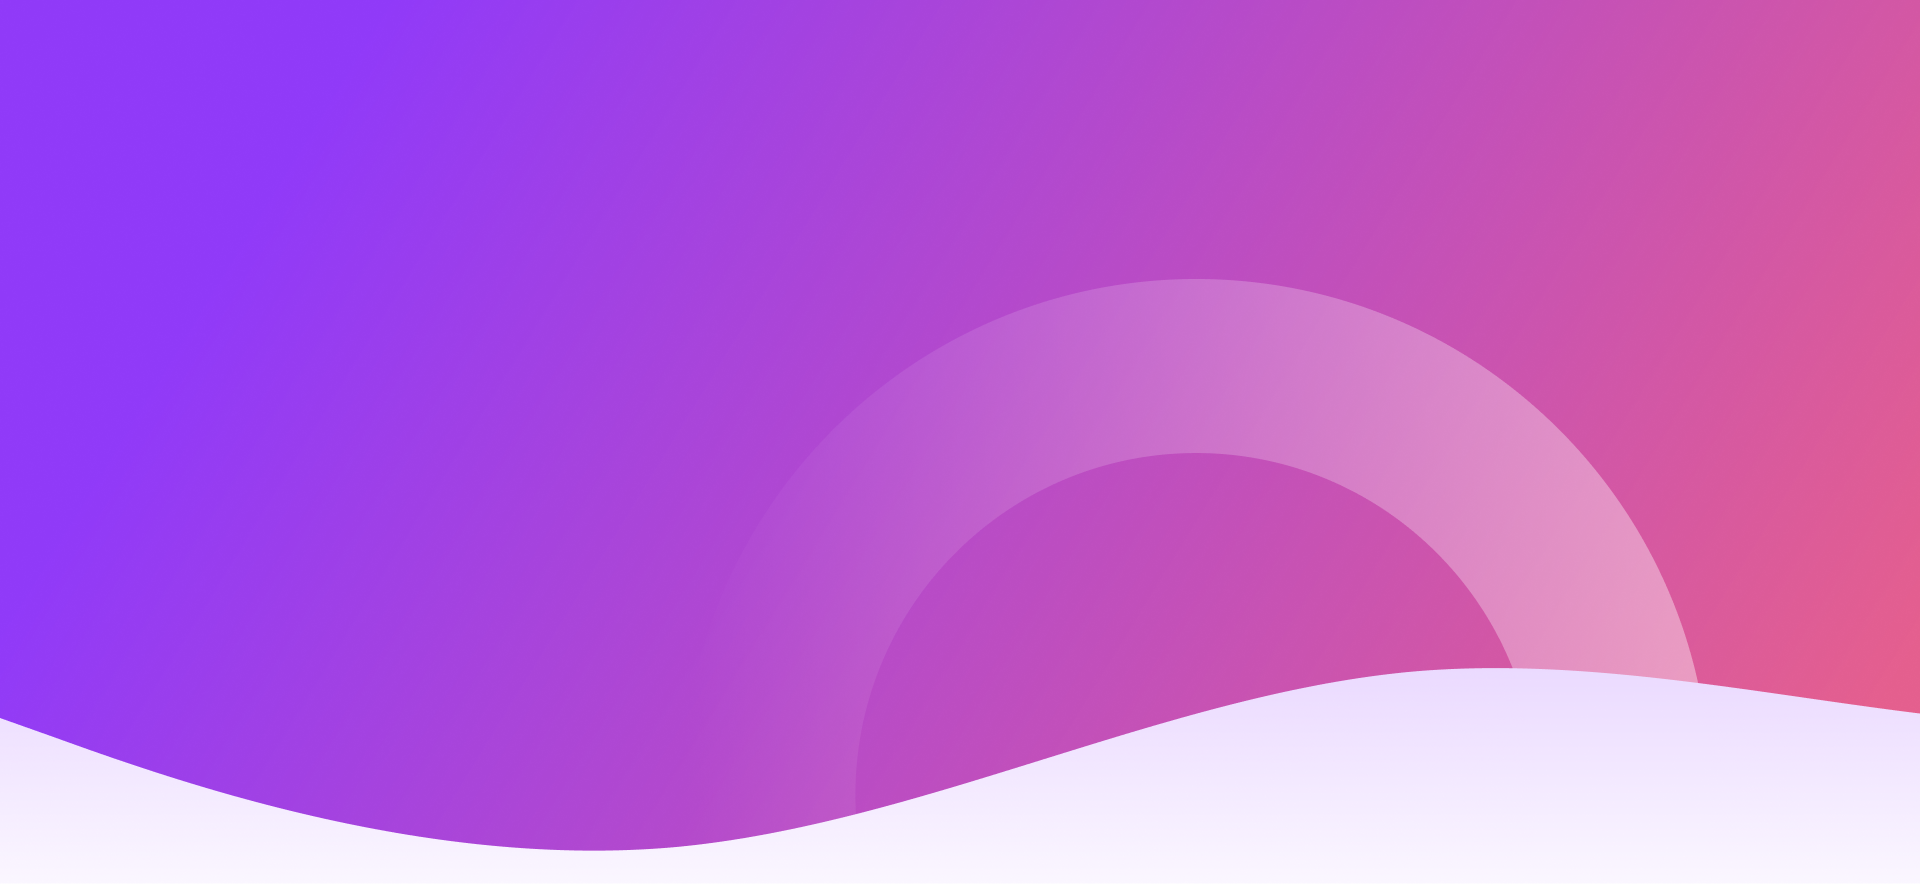
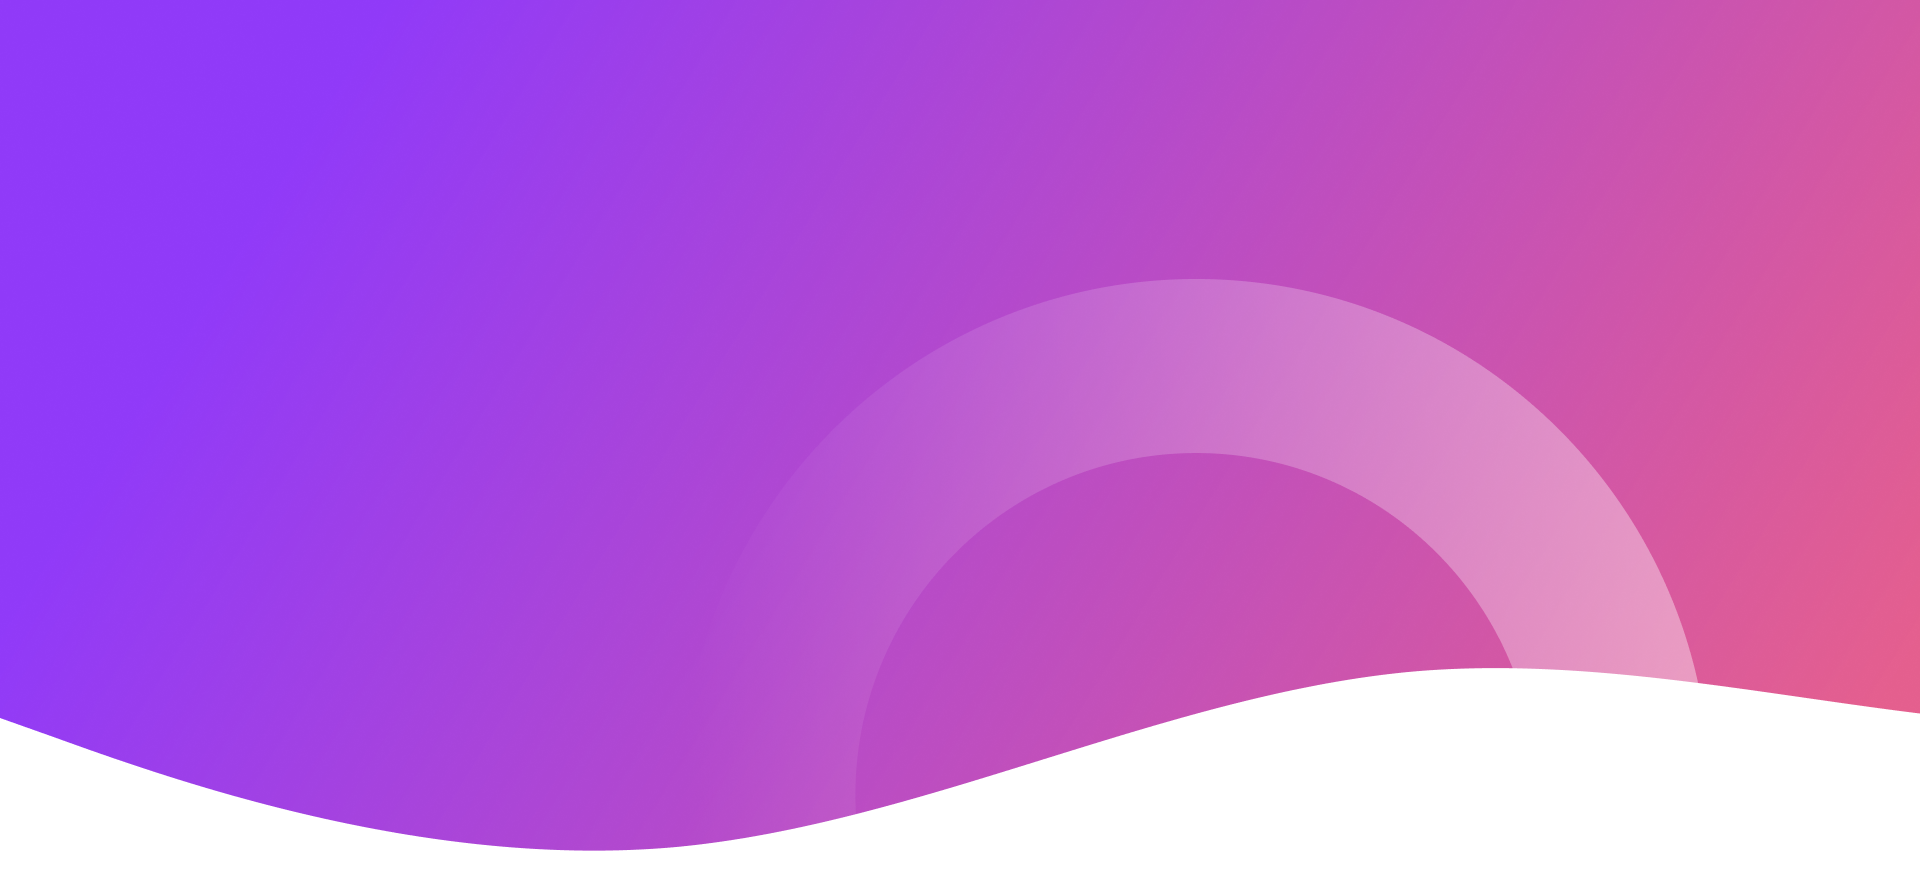
help is done

Changed region(s): [[0.5312, 0.733, 1.0, 0.8857], [0.0, 0.8247, 0.0625, 0.8857]]

diff --git a/src/components/site-main/service/help.jsx b/src/components/site-main/service/help.jsx
@@ -1,0 +1,56 @@
+import StartupImg from "../../../assets/images/startup.png"
+import AutomizationImg from "../../../assets/images/automization.png"
+import OptimizationImg from "../../../assets/images/optimization.png"
+import SaasImg from "../../../assets/images/saas.png"
+
+const help = [
+    {
+        id: 1,
+        title: "Увеличить",
+        desc: "прибыль компании",
+        img: StartupImg,
+        class: "service-help__card"
+    },
+    {
+        id: 2,
+        title: "Автоматизировать",
+        desc: "взаимодействие с клиентами",
+        img: AutomizationImg,
+        class: "service-help__card service-help__card-move"
+    },
+    {
+        id: 3,
+        title: "Оптимизировать",
+        desc: "бинес-процессы",
+        img: OptimizationImg,
+        class: "service-help__card service-help__card-move"
+    },
+    {
+        id: 4,
+        title: "Перенести",
+        desc: "бизнес в облако",
+        img: SaasImg,
+        class: "service-help__card"
+    },
+]
+
+const Help = () => {
+    return (
+        <div className="main-service__help">
+            <h2 className="service-help__title">Приложение поможет вам:</h2>
+            <div className="service-help__cards">
+                {
+                    help.map(item => (
+                        <div className={ item.class } key={ item.id }>
+                            <h3>{ item.title }</h3>
+                            <p>{ item.desc }</p>
+                            <img src={ item.img } alt={ item.title } />
+                        </div>
+                    ))
+                }
+            </div>
+        </div>
+    );
+}
+ 
+export default Help;

diff --git a/src/components/site-main/service/index.css b/src/components/site-main/service/index.css
@@ -1,0 +1,85 @@
+.site-main__service{
+    padding-top: 86px;
+    padding-bottom: 230px;
+    background: url("../../../assets/images/service-bg.png") no-repeat center 100%;
+}
+
+.service-help__title{
+    font-size: 52px;
+    line-height: 60px;
+    text-align: center;
+    opacity: 0.8;
+    margin-top: 0;
+    margin-bottom: 60px;
+    font-weight: 400;
+}
+
+.service-help__cards{
+    display: flex;
+    justify-content: space-between;
+    align-items: flex-start;
+    margin-left: -50px;
+}
+
+.service-help__card{
+    flex-shrink: 1;
+    width: 100%;
+    max-width: 350px;
+    margin-left: 50px;
+    padding: 50px 35px;
+    box-shadow: 0px 86px 114px rgba(124, 20, 253, 0.14);
+    border-radius: 50px;
+    background: #FAF6FF;
+    border: 2px solid #FFFFFF;
+    text-align: center;
+    color: #7c14fd;
+}
+
+.service-help__card-move{
+    margin-top: 80px;
+}
+
+.service-help__card h3{
+    margin-top: 0;
+    margin-bottom: 0;
+    font-size: 25px;
+    line-height: 40px;
+    font-weight: 400;
+}
+
+.service-help__card p{
+    margin-top: 0;
+    font-size: 18px;
+    line-height: 28px;
+    margin-bottom: 25px;
+    font-weight: 400;
+}
+
+.service-help__card img{
+    width: 50%;
+}
+
+@media only screen and (max-width: 1250px){
+    .service-help__cards {
+        flex-wrap: wrap;
+        justify-content: center;
+        margin-left: -25px;
+        margin-bottom: -25px;
+    }
+
+    .service-help__card {
+        margin-left: 25px;
+        margin-bottom: 25px;
+    }
+
+    .service-help__card-move{
+        margin-top: 0;
+    }
+}
+
+@media only screen and (max-width: 800px){
+    .service-help__title{
+        font-size: 30px;
+        line-height: 40px;
+    }
+}

diff --git a/src/components/site-main/service/index.jsx b/src/components/site-main/service/index.jsx
@@ -1,0 +1,16 @@
+import "./index.css"
+import Clients from "./clients";
+import Help from "./help";
+
+const Service = () => {
+    return (
+        <div className="site-main__service">
+            <div className="main-service__container container">
+                <Help />
+                <Clients />
+            </div>
+        </div>
+    );
+}
+ 
+export default Service;

diff --git a/src/components/site-main/index.jsx b/src/components/site-main/index.jsx
@@ -1,9 +1,12 @@
+import "./index.css"
 import SiteMainHeader from "./header";
+import Service from "./service";
 
 const SiteMain = () => {
     return (
         <main className="site-main">
             <SiteMainHeader />
+            <Service />
         </main>
     );
 }

diff --git a/src/components/site-footer/site-footer.css b/src/components/site-footer/site-footer.css
@@ -2,6 +2,7 @@
     color: #fff;
     padding: 170px 25px 60px 25px;
     background: url("../../assets/images/footer-bg.png") no-repeat 0% center;
+    background-size: cover;
 }
 
 .site-footer__container{

diff --git a/src/index.css b/src/index.css
@@ -31,7 +31,7 @@ body {
   margin: 0;
   padding: 0;
   font-family: "Actor", "Arial", sans-serif;
-  background-color: #e5e5e5;
+  font-weight: 400;
 }
 
 img{

diff --git a/src/components/site-main/service/clients.jsx b/src/components/site-main/service/clients.jsx
@@ -1,0 +1,7 @@
+const Clients = () => {
+    return (
+        <div></div>
+    );
+}
+ 
+export default Clients;
